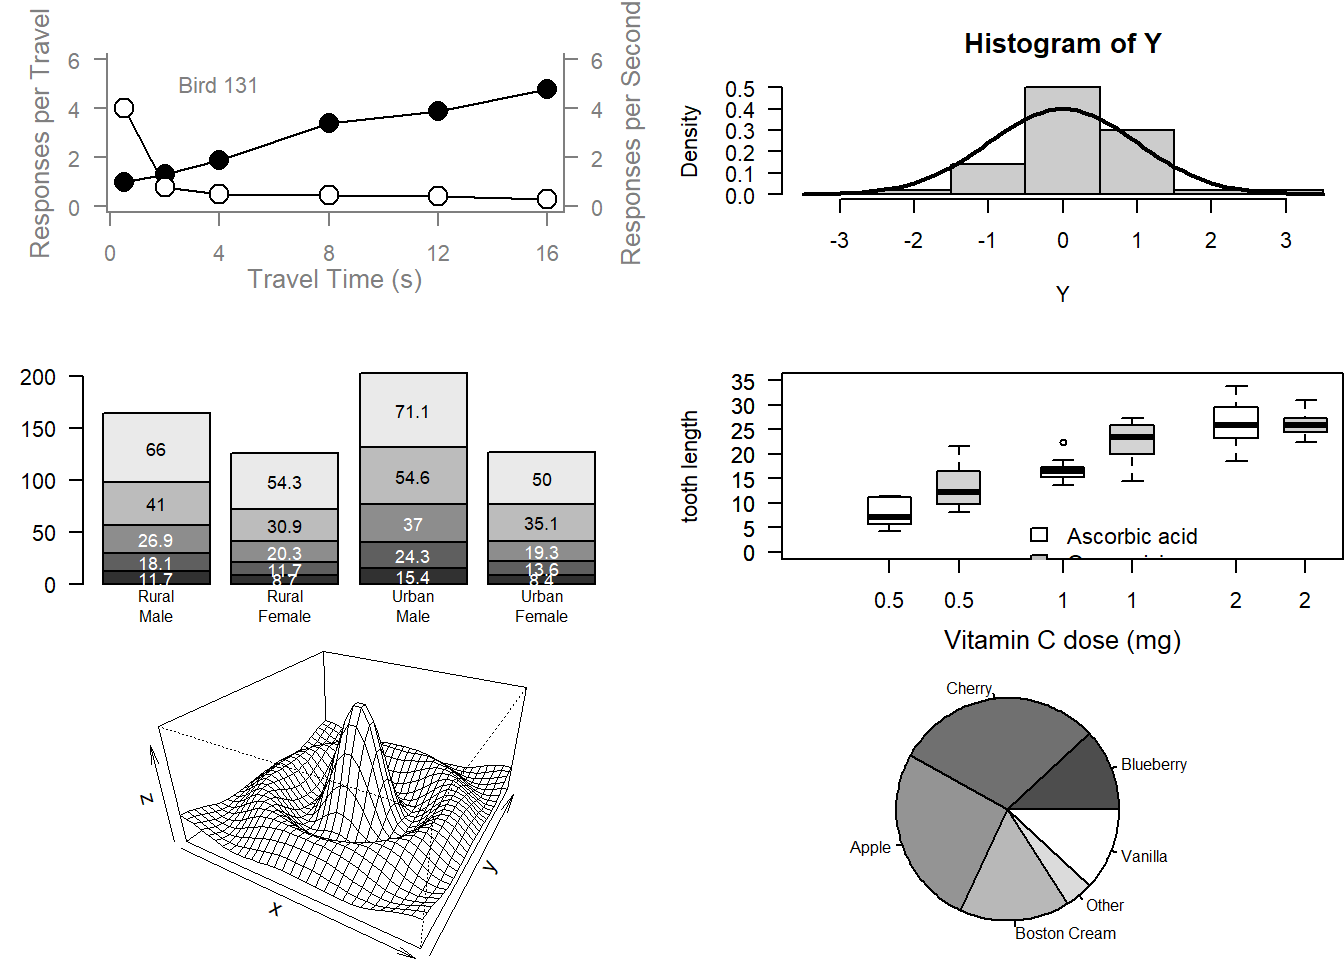
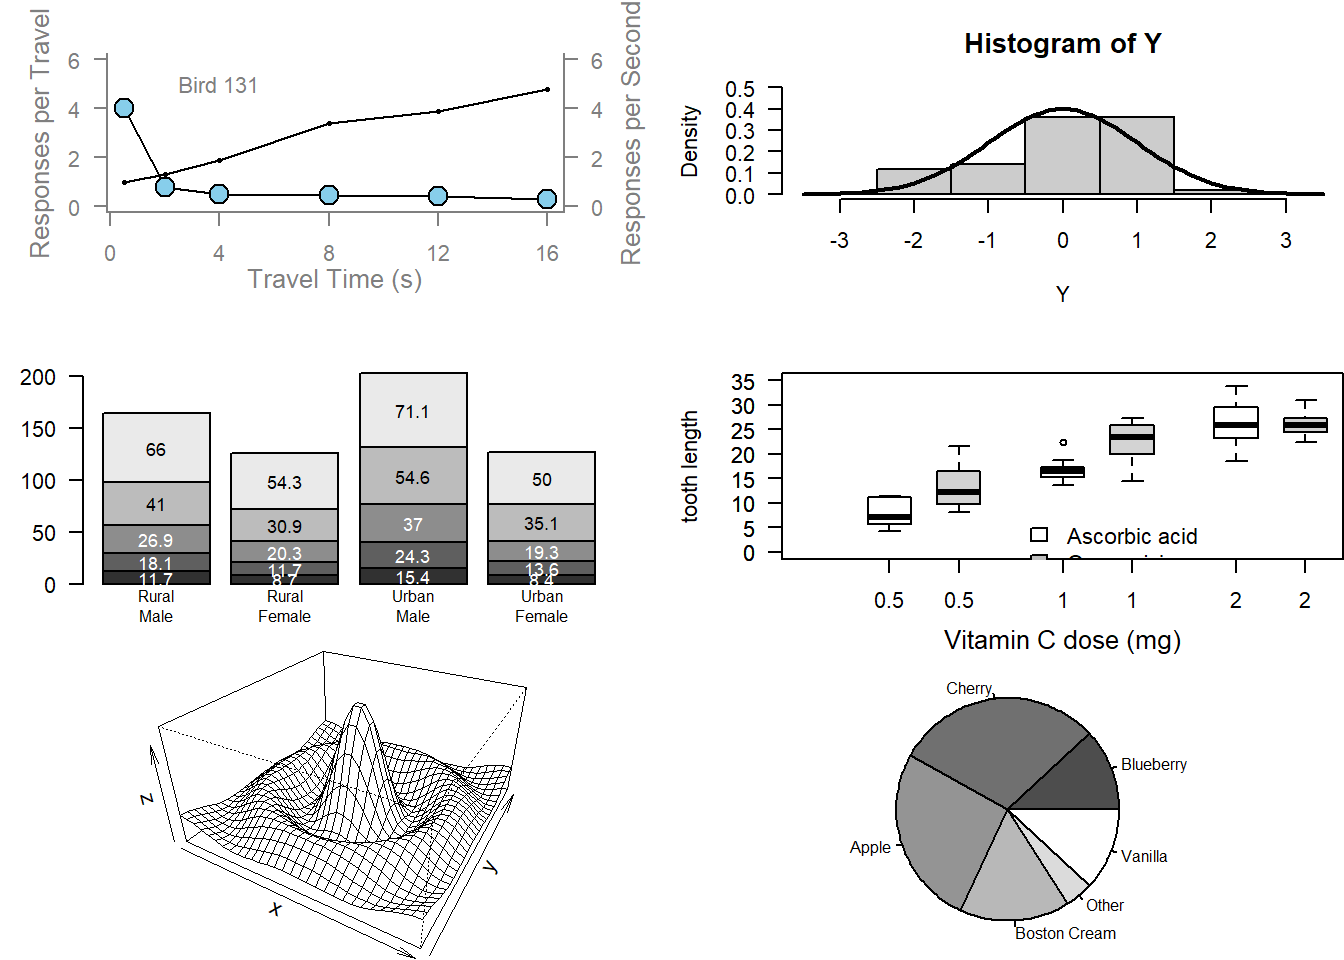
Add files via upload

diff --git a/assignment2.html b/assignment2.html
@@ -192,7 +192,7 @@ pre > code.sourceCode > span > a:first-child::before { text-decoration: underlin
 <span id="cb1-2"><a href="#cb1-2" aria-hidden="true" tabindex="-1"></a></span>
 <span id="cb1-3"><a href="#cb1-3" aria-hidden="true" tabindex="-1"></a><span class="do">## Start plotting from basics </span></span>
 <span id="cb1-4"><a href="#cb1-4" aria-hidden="true" tabindex="-1"></a><span class="co"># Note the order</span></span>
-<span id="cb1-5"><a href="#cb1-5" aria-hidden="true" tabindex="-1"></a><span class="fu">plot</span>(pressure, <span class="at">pch=</span><span class="dv">16</span>)  <span class="co"># Can you change pch?</span></span>
+<span id="cb1-5"><a href="#cb1-5" aria-hidden="true" tabindex="-1"></a><span class="fu">plot</span>(pressure, <span class="at">pch=</span><span class="st">"+"</span>)  <span class="co"># Can you change pch? A: pch="+"</span></span>
 <span id="cb1-6"><a href="#cb1-6" aria-hidden="true" tabindex="-1"></a><span class="fu">text</span>(<span class="dv">150</span>, <span class="dv">600</span>, </span>
 <span id="cb1-7"><a href="#cb1-7" aria-hidden="true" tabindex="-1"></a>     <span class="st">"Pressure (mm Hg)</span><span class="sc">\n</span><span class="st">versus</span><span class="sc">\n</span><span class="st">Temperature (Celsius)"</span>)</span></code><button title="Copy to Clipboard" class="code-copy-button"><i class="bi"></i></button></pre></div>
 <div class="cell-output-display">
@@ -219,10 +219,10 @@ pre > code.sourceCode > span > a:first-child::before { text-decoration: underlin
 <span id="cb2-19"><a href="#cb2-19" aria-hidden="true" tabindex="-1"></a><span class="fu">plot.window</span>(<span class="fu">range</span>(x), <span class="fu">c</span>(<span class="dv">0</span>, <span class="dv">6</span>))</span>
 <span id="cb2-20"><a href="#cb2-20" aria-hidden="true" tabindex="-1"></a><span class="fu">lines</span>(x, y1)</span>
 <span id="cb2-21"><a href="#cb2-21" aria-hidden="true" tabindex="-1"></a><span class="fu">lines</span>(x, y2)</span>
-<span id="cb2-22"><a href="#cb2-22" aria-hidden="true" tabindex="-1"></a><span class="fu">points</span>(x, y1, <span class="at">pch=</span><span class="dv">16</span>, <span class="at">cex=</span><span class="dv">2</span>) <span class="co"># Try different cex value?  </span></span>
-<span id="cb2-23"><a href="#cb2-23" aria-hidden="true" tabindex="-1"></a><span class="fu">points</span>(x, y2, <span class="at">pch=</span><span class="dv">21</span>, <span class="at">bg=</span><span class="st">"white"</span>, <span class="at">cex=</span><span class="dv">2</span>)  <span class="co"># Different background color</span></span>
+<span id="cb2-22"><a href="#cb2-22" aria-hidden="true" tabindex="-1"></a><span class="fu">points</span>(x, y1, <span class="at">pch=</span><span class="dv">16</span>, <span class="at">cex=</span><span class="fl">0.5</span>) <span class="co"># Try different cex value?  cex=0.5</span></span>
+<span id="cb2-23"><a href="#cb2-23" aria-hidden="true" tabindex="-1"></a><span class="fu">points</span>(x, y2, <span class="at">pch=</span><span class="dv">21</span>, <span class="at">bg=</span><span class="st">"skyblue"</span>, <span class="at">cex=</span><span class="dv">2</span>)  <span class="co"># Different background color</span></span>
 <span id="cb2-24"><a href="#cb2-24" aria-hidden="true" tabindex="-1"></a><span class="fu">par</span>(<span class="at">col=</span><span class="st">"gray50"</span>, <span class="at">fg=</span><span class="st">"gray50"</span>, <span class="at">col.axis=</span><span class="st">"gray50"</span>)</span>
-<span id="cb2-25"><a href="#cb2-25" aria-hidden="true" tabindex="-1"></a><span class="fu">axis</span>(<span class="dv">1</span>, <span class="at">at=</span><span class="fu">seq</span>(<span class="dv">0</span>, <span class="dv">16</span>, <span class="dv">4</span>)) <span class="co"># What is the first number standing for?</span></span>
+<span id="cb2-25"><a href="#cb2-25" aria-hidden="true" tabindex="-1"></a><span class="fu">axis</span>(<span class="dv">1</span>, <span class="at">at=</span><span class="fu">seq</span>(<span class="dv">0</span>, <span class="dv">16</span>, <span class="dv">4</span>)) <span class="co"># What is the first number standing for? X-axis</span></span>
 <span id="cb2-26"><a href="#cb2-26" aria-hidden="true" tabindex="-1"></a><span class="fu">axis</span>(<span class="dv">2</span>, <span class="at">at=</span><span class="fu">seq</span>(<span class="dv">0</span>, <span class="dv">6</span>, <span class="dv">2</span>))</span>
 <span id="cb2-27"><a href="#cb2-27" aria-hidden="true" tabindex="-1"></a><span class="fu">axis</span>(<span class="dv">4</span>, <span class="at">at=</span><span class="fu">seq</span>(<span class="dv">0</span>, <span class="dv">6</span>, <span class="dv">2</span>))</span>
 <span id="cb2-28"><a href="#cb2-28" aria-hidden="true" tabindex="-1"></a><span class="fu">box</span>(<span class="at">bty=</span><span class="st">"u"</span>)</span>
